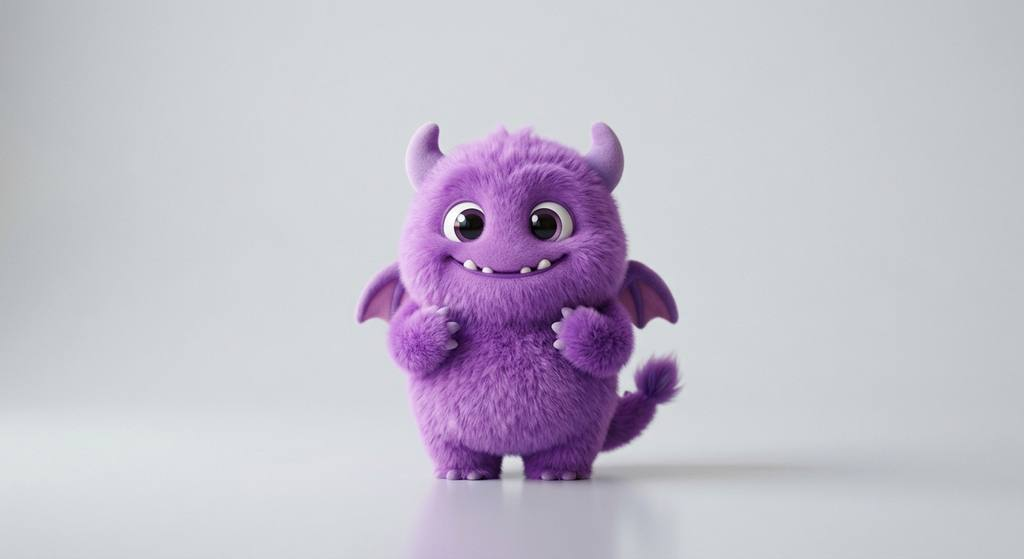
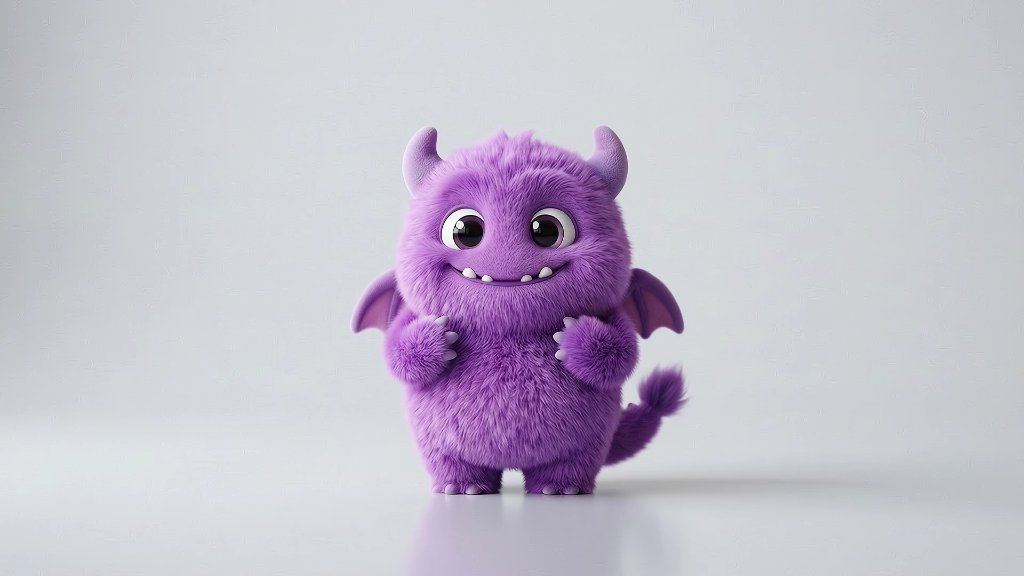
fix: elimina o salto de tamanho e de cor na entrada do vídeo
O pôster era 1024×559 contra os 16:9 do clipe. Com object-fit: cover as
duas proporções caem em caixas de desenho diferentes, e na troca o
personagem crescia 38px de altura e escorregava 6px para o lado. Agora
o pôster é o quadro 0 extraído do próprio vídeo, em 1024×576.

Vídeo e pôster decodificam para pixels idênticos — diferença [0,0,0] lida
pelo canvas — mas, promovido a overlay de hardware, o vídeo é composto
pela GPU por um caminho de cor diferente do que as imagens percorrem. Um
filter: saturate(1), que é identidade e não altera um pixel, o desqualifica
do overlay e o devolve à composição comum. Mais barato que mix-blend-mode:
é um passe no próprio elemento, sem reler o fundo a cada quadro.

Os dois descompassos eram anteriores à troca do vídeo. Ficaram visíveis
quando o arquivo dobrou de peso e o pôster passou a ocupar a tela por
tempo suficiente para o salto aparecer.

A descrição de cor também foi escrita no SPS, além da caixa colr do
container, sem recodificar um único quadro: o mdat segue idêntico por
SHA-256.

Changed region(s): [[0.3438, 0.2129, 0.6875, 0.8819], [0.4062, 0.2129, 0.4375, 0.3041]]

diff --git a/css/style.css b/css/style.css
@@ -196,6 +196,12 @@ main{
     object-position: center 45%;
     /* ele ocupa mais quadro; o corte extra sai das bordas vazias */
     transform: scale(1.07);
+    /* filtro identidade: não altera um pixel sequer, mas tira o vídeo do overlay
+       de hardware, onde a GPU o compõe por um caminho de cor diferente do das
+       imagens. Era isso que fazia a cor saltar na troca do pôster para o vídeo,
+       mesmo os dois decodificando para valores idênticos. Mais barato que
+       mix-blend-mode: é um passe no próprio elemento, sem reler o fundo. */
+    filter: saturate(1);
 }
 
 /* viewport mais larga que 2:1 (notebook baixo): o corte passa a ser vertical

diff --git a/README.md b/README.md
@@ -41,7 +41,11 @@ Algumas escolhas que não são óbvias pelo código:
 
 **A troca não tem `seek`.** São dois elementos `<video>`. Enquanto um toca, o outro fica pausado no quadro zero, já decodificado e pronto na tela; trocar significa apenas subir uma camada no `z-index`. Não há busca no arquivo nem espera de buffer no instante crítico. A cópia que sai é pausada e rebobinada escondida atrás da outra, com 7,6 segundos de folga até precisar entrar de novo. O gatilho usa `requestVideoFrameCallback`, que entrega o `mediaTime` exato de cada quadro apresentado — um `setTimeout` acumularia desvio a cada volta e erraria a janela sob buffering.
 
-**O MP4 não declarava sua cor, e o navegador errava o palpite.** O arquivo não tinha caixa `colr` no container, e o SPS do H.264 vinha com `video_signal_type_present_flag = 0`. Sem etiqueta, o Chrome assume BT.709 pela heurística de alta definição — mas o material foi codificado com coeficientes **BT.601**, e a matriz errada na conversão YUV→RGB devolvia o personagem **11% menos saturado** que a fonte. A correção foi uma caixa `colr` de 19 bytes inserida no `avc1`, sem recodificar um único quadro: como o `moov` neste arquivo fica depois do `mdat`, crescer o `moov` não desloca os offsets de chunk. O `mdat` continua byte a byte idêntico, conferido por SHA-256.
+**O MP4 não declarava sua cor, e o navegador errava o palpite.** O arquivo não tinha caixa `colr` no container, e o SPS do H.264 vinha com `video_signal_type_present_flag = 0`. Sem etiqueta, o Chrome assume BT.709 pela heurística de alta definição — mas o material foi codificado com coeficientes **BT.601**, e a matriz errada na conversão YUV→RGB devolvia o personagem **11% menos saturado** que a fonte. A etiqueta foi escrita nos dois lugares, sem recodificar um único quadro: uma caixa `colr` de 19 bytes no `avc1` e a descrição de cor dentro do próprio SPS, com `matrix_coefficients = 6`. Só o container não basta — quando o vídeo sobe para overlay de hardware o decodificador enxerga apenas o fluxo, e a caixa `colr` é ignorada; era por isso que o pôster aparecia saturado e a cor caía assim que o primeiro quadro entrava. Como o `moov` fica depois do `mdat`, crescer o `moov` não desloca os offsets de chunk: o `mdat` continua byte a byte idêntico, conferido por SHA-256.
+
+**Mas etiquetar a cor não bastava: o vídeo sai do overlay por um filtro que não filtra nada.** Decodificados, vídeo e pôster entregam exatamente os mesmos pixels — conferido lendo os dois pelo canvas, diferença `[0, 0, 0]`. Na tela, não: promovido a overlay de hardware, o vídeo é composto pela GPU por um caminho de cor diferente do que as imagens percorrem, e a cor saltava no instante em que o pôster dava lugar ao primeiro quadro. Um `filter: saturate(1)` no elemento — identidade, não altera um pixel — o desqualifica do overlay e o devolve à composição comum. É mais barato que `mix-blend-mode`: um passe no próprio elemento, sem reler o fundo a cada quadro.
+
+**O pôster tem a proporção exata do vídeo.** Ele era 1024×559 contra os 16:9 do clipe. Com `object-fit: cover`, proporções diferentes caem em caixas de desenho diferentes: na troca, o personagem crescia 38 px de altura e escorregava 6 px para o lado. O descompasso era antigo e passava despercebido enquanto o arquivo era leve; ao dobrar de peso, o pôster passou a ficar tempo suficiente na tela para o salto aparecer. Agora ele é o quadro 0 extraído do próprio vídeo, em 1024×576.
 
 **Nada de `mix-blend-mode` sobre vídeo em reprodução.** Os numerais usavam `multiply`, que obriga o compositor a reler o fundo a cada quadro numa camada do tamanho da tela. O SVG dependia disso: tinha um retângulo branco cobrindo os 1920×1080, invisível apenas porque branco no multiply não altera nada. Foi reescrito sem o retângulo, com a cor calculada para reproduzir o resultado do multiply sobre o cinza do estúdio — que é onde os dois `4` de fato ficam — usando composição normal.
 
@@ -83,8 +87,8 @@ E acesse `http://localhost:8000`.
 ├── js/
 │   └── script.js
 └── assets/
-    ├── monstrinho.mp4           vídeo de fundo em 1080p, com a caixa colr corrigida
-    ├── monstrinho-poster.jpg    primeiro quadro, exibido durante o carregamento
+    ├── monstrinho.mp4           vídeo de fundo em 1080p, cor etiquetada no container e no SPS
+    ├── monstrinho-poster.jpg    quadro 0 em 16:9, exibido durante o carregamento
     ├── numeros-404.svg          numerais que emolduram a cena
     ├── logo.png                 marca em tinta escura, para fundo claro
     ├── logo-branca.png          marca para fundos escuros
